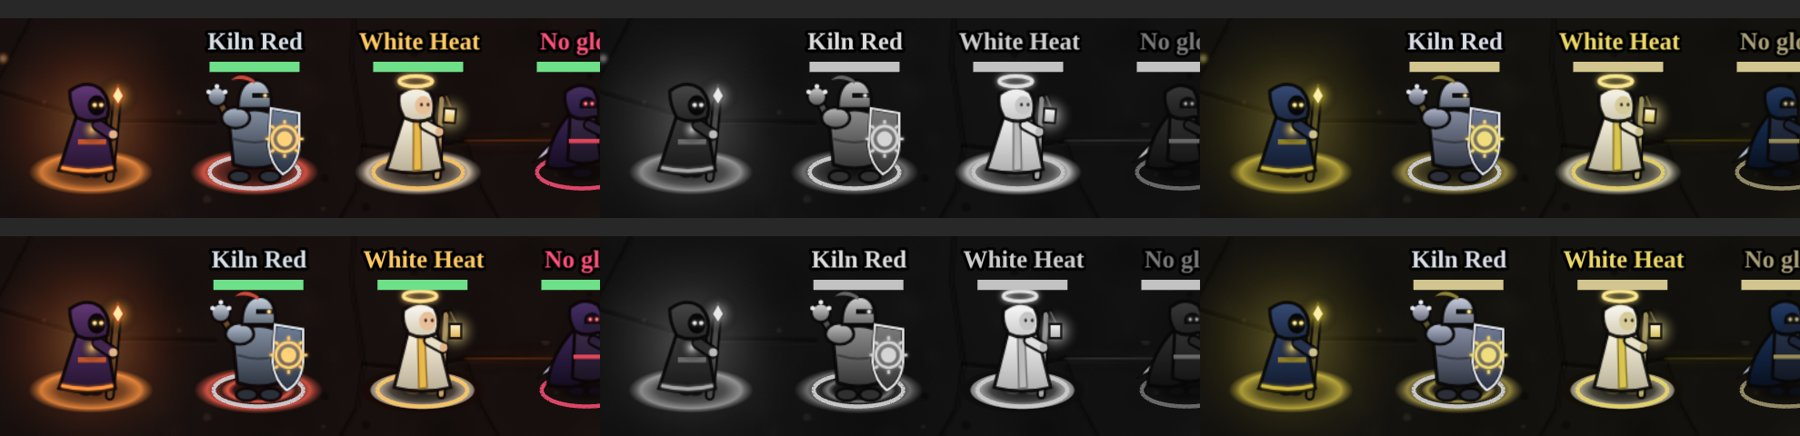
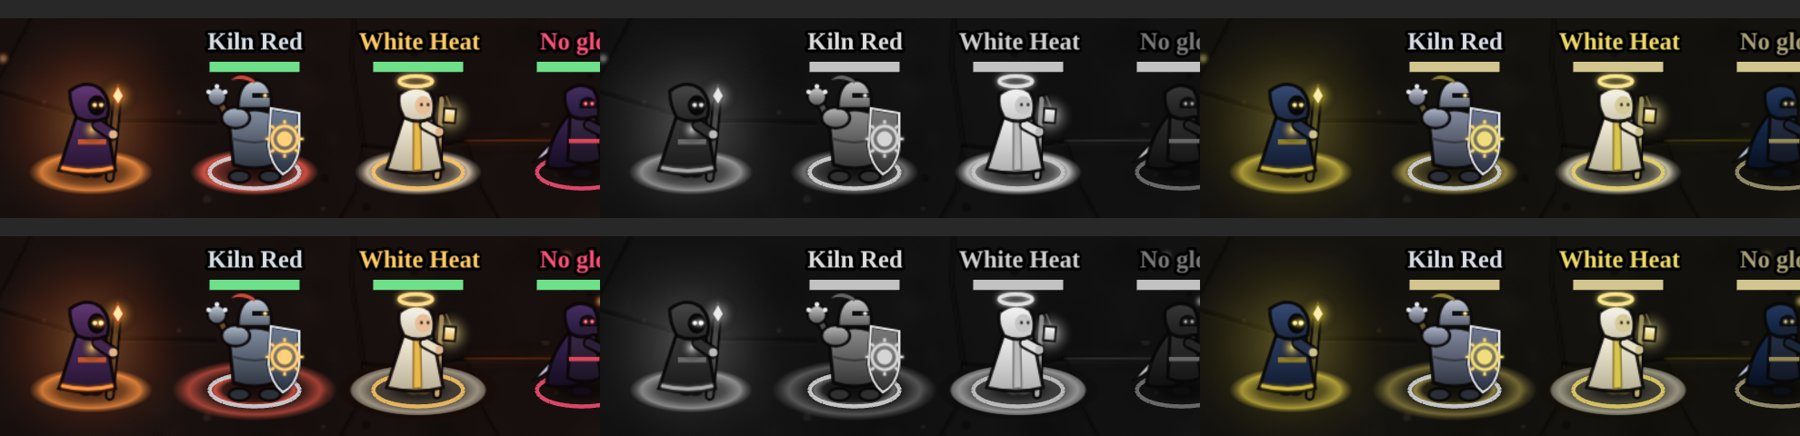
Allies' season glows sit just outside their class ring (#236)
* Season 2 art (the Deep Bellows): key art, season colours, In season mark, glow marks, sparks trail

- Season box takes each season's colours (client/seasonArt.ts); the Deep Bellows adds a key art banner:
  a three-role party at the Hammerdeep's forge mouth, bellows either side, a slow breath, rising sparks.
  The Hollow Tide keeps its violet. Motion stops for Battery saver and reduced motion.
- The season's dungeon gets an "In season" badge and warm edge in the dungeon list.
- Glow marks so the three warm glows part by shape: Kiln Red has an inner ring, White Heat a dark
  outline; the hub swatches carry the same marks.
- Bellows Sparks draws rising embers that cool to a dim red, instead of soft mist motes.

Claude-Session: https://claude.ai/code/session_012zrft5WLQzrCvekCDMSJ1X

* Allies' glows sit just outside their class ring, a touch dimmer

The class ring is how a healer finds the tank, so a cosmetic glow must not cover it.

Claude-Session: https://claude.ai/code/session_012zrft5WLQzrCvekCDMSJ1X

* Allies' glows sit just outside their class ring, a touch dimmer

The class ring is how a healer finds the tank, so a cosmetic glow must not cover it.

Claude-Session: https://claude.ai/code/session_012zrft5WLQzrCvekCDMSJ1X

---------

diff --git a/client/GameScene.ts b/client/GameScene.ts
@@ -1171,7 +1171,9 @@ export class GameScene extends Phaser.Scene {
       if (al.tag) al.tag.setPosition(ax, ay - 34).setAlpha(down ? 0.5 : 1);
       if (al.glow) {
         const gp = Math.sin(now / 520 + al.hero);
-        al.glow.setPosition(ax, ay + 22).setScale((60 + gp * 3) / 128, (22 + gp * 1) / 128).setAlpha(down ? 0.3 : 0.8 + gp * 0.15);
+        // An ally's glow sits just outside their class ring (44 x 16), so the ring, which is how a healer finds
+        // the tank in a crowd, always shows; a touch dimmer than your own so a full party doesn't crowd a phone.
+        al.glow.setPosition(ax, ay + 22).setScale((78 + gp * 3) / 128, (29 + gp * 1) / 128).setAlpha(down ? 0.25 : 0.62 + gp * 0.12);
       }
       al.label.setPosition(ax, ay - (al.tag ? 34 + al.tag.height : 34)).setText(down ? `${w.heroes[al.hero].name} · down` : w.heroes[al.hero].name);
       setColorIf(al.label, down ? '#9a8a84' : CLASS_ICON[w.heroes[al.hero].cls].color);
